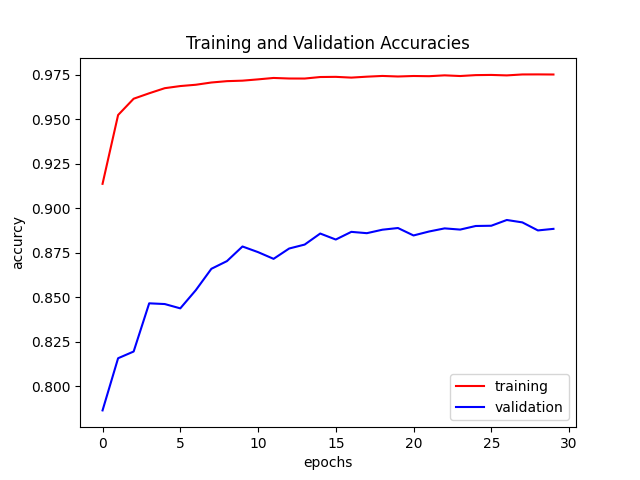
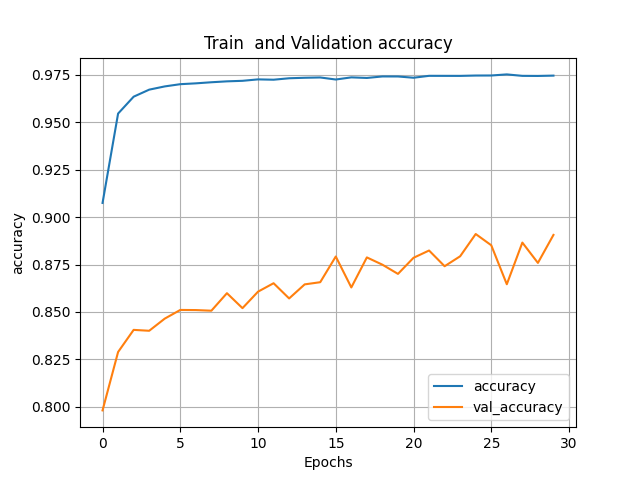
updated plots

diff --git a/ids.py b/ids.py
@@ -180,24 +180,10 @@ loss = history.history['loss']
 val_acc = history.history['val_accuracy']
 val_loss = history.history['val_loss']
 
-plt.title('Training and Validation Accuracies')
-plt.plot(epoch_range, acc, 'r', label='training')
-plt.plot(epoch_range, val_acc, 'b', label='validation')
-plt.xlabel('epochs')
-plt.ylabel('accurcy')
-plt.legend()
-plt.figure()
-
-plt.title('Training and Validation Losses')
-plt.plot(epoch_range, loss, 'r', label='training')
-plt.plot(epoch_range, val_loss, 'b', label='validation')
-plt.xlabel('epochs')
-plt.ylabel('loss')
-plt.legend()
-plt.show()
 
 def plot_graphs(history, component):
-    plt.title('Train ' + component + ' and validation ' + component)
+    """ component is either accuracy or loss """
+    plt.title('Train ' + ' and Validation ' + component)
     plt.plot(history.history[component])
     plt.plot(history.history['val_'+component])
     plt.xlabel('Epochs')
